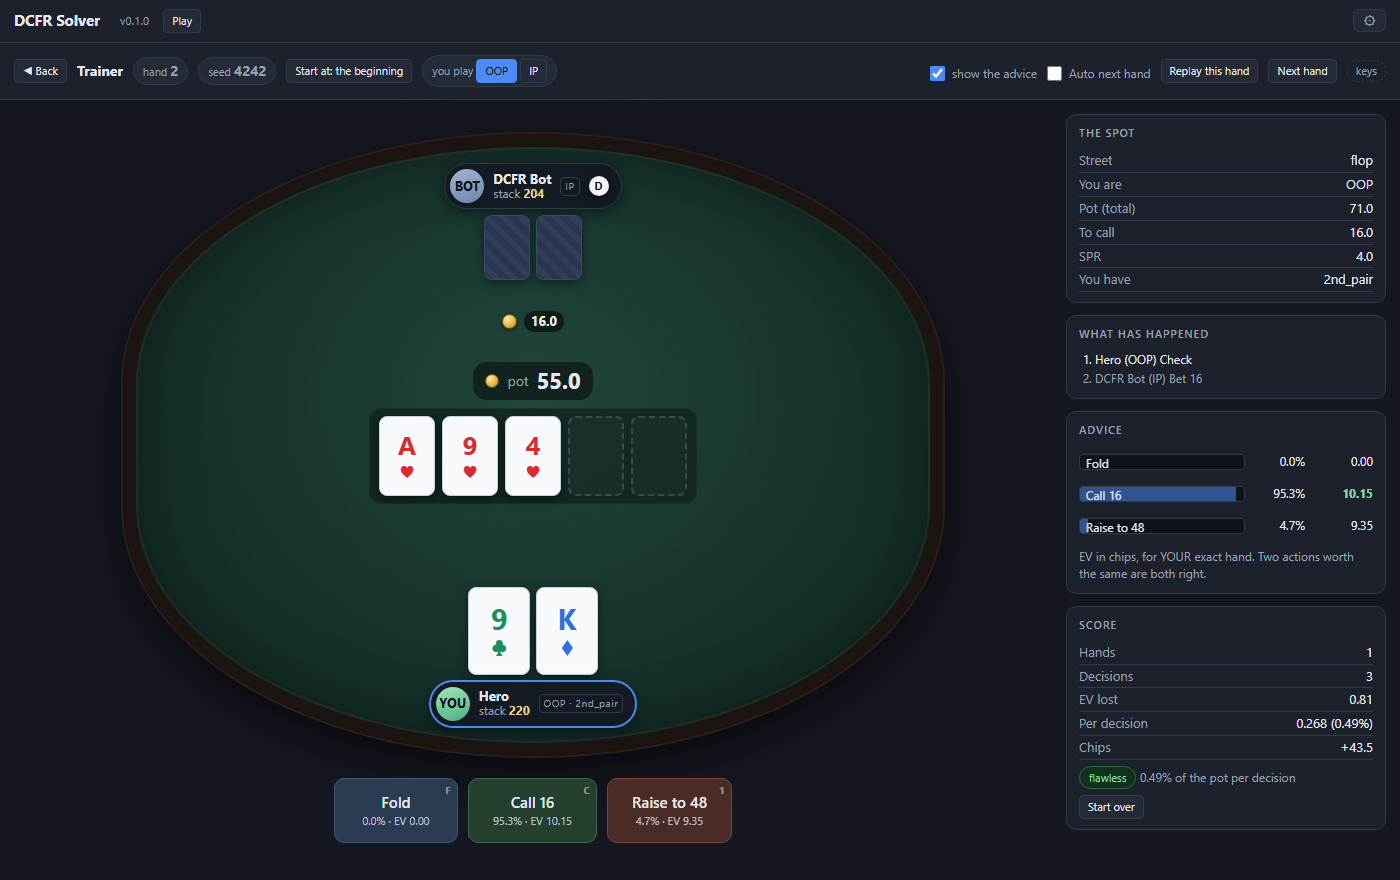
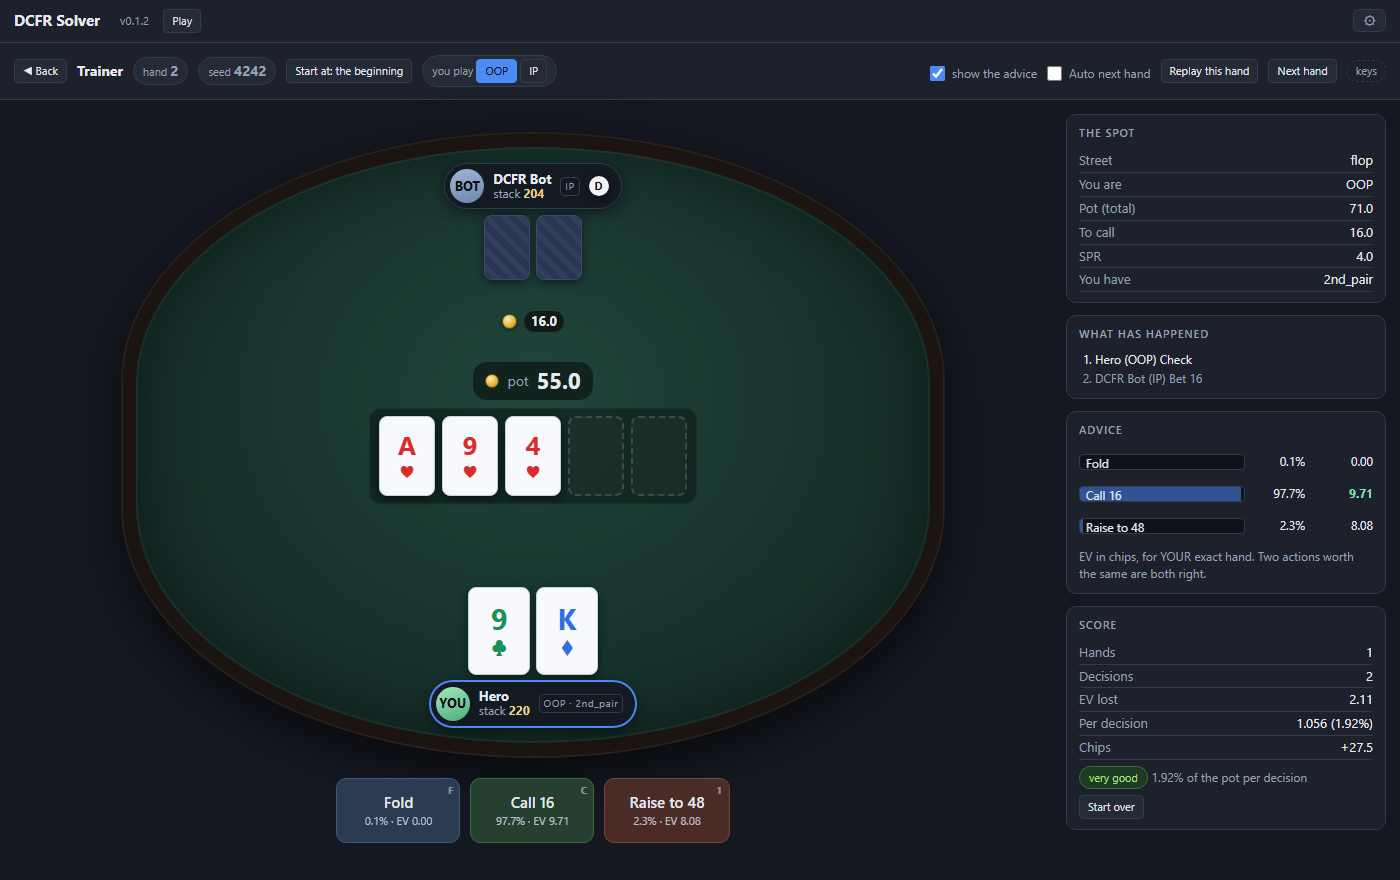
v0.1.2
Capturas del README rehechas con este build: la de estudio mostraba una
cabecera sin el boton de Resolver, que es justo lo que cambia esta version, y
las dos llevaban el numero de version viejo.

diff --git a/src/config.hpp b/src/config.hpp
@@ -15,7 +15,7 @@ namespace cfg {
 // esto" hay que saber con QUE build le falla, y sin un numero a la vista la
 // respuesta es "actualiza y prueba", que no es una respuesta. Sale en --help,
 // en la barra de arriba de la interfaz y en el titulo de la pestana.
-inline const char* VERSION = "0.1.1";
+inline const char* VERSION = "0.1.2";
 
 // ---- structural -------------------------------------------------------------
 constexpr int MAX_ACTIONS = 8;    // upper bound on a node's branching factor

diff --git a/CHANGELOG.md b/CHANGELOG.md
@@ -6,6 +6,24 @@ The format follows [Keep a Changelog](https://keepachangelog.com/) loosely and
 the project uses [semantic versioning](https://semver.org/): until 1.0.0, the
 minor number moves when something user-visible changes.
 
+## [0.1.2] — 2026-09-21
+
+Another pass over the first thing a newcomer sees, measured in an empty folder
+and in a laptop-sized window.
+
+- **Solve is in the header now.** In an 808px-tall window the button sat at
+  1823px on a 2208px page: off the first screen, behind the entire range grid,
+  while the right-hand column said “solve to see this” three times with nothing
+  in sight to press. It now sits next to the pills that talk about it, and it
+  leaves the screen at the table. It carries no state of its own — it copies
+  the button at the bottom, which already knows whether a range is missing or
+  there are locks waiting to be applied.
+- **A download link at the top** of both READMEs. It was only inside
+  “Quick start”, past the table of contents.
+- **Fixed in the docs**: the README said `saves/` appears “the first time you
+  save anything”. It does not — it is written at startup, with the seven
+  ranges the binary ships with already inside it.
+
 ## [0.1.1] — 2026-09-21
 
 The evening-before-launch pass: looking at the screen the way someone who has
